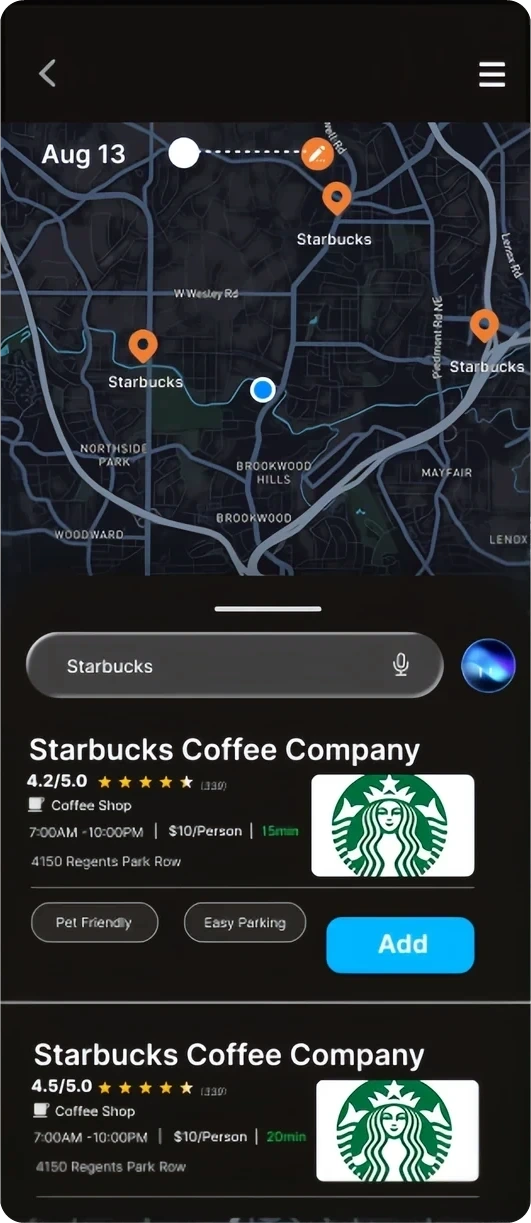
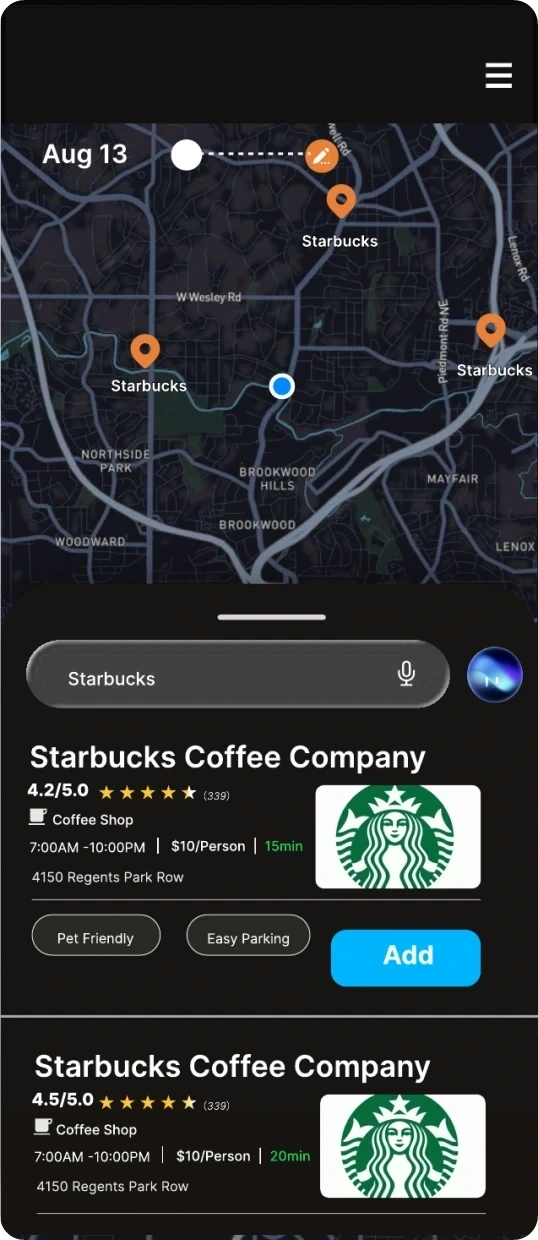
Trip Planning: high-res phone screens, new 06 Low-Fidelity Flows section
- 17 phone screenshots replaced with the user's exports (tools/phone_hires.py, sources in
  ../reference/trip-planning/phone-hires), then the existing corner/trim/tone steps; frame,
  radius and shadow unchanged; all on the #14161E map base.
- Car and phone wireframe boards, both 2000x1304 (background extended, nothing cropped),
  with a 'View the full flow in Figma' button (figma.tripWireframes, placeholder link).

diff --git a/app/work/ai-trip-planning/page.tsx b/app/work/ai-trip-planning/page.tsx
@@ -46,14 +46,15 @@ const NAV: CaseNavItem[] = [
   { id: "insights", index: "03", label: "Key Insights" },
   { id: "color", index: "04", label: "Color & Materials" },
   { id: "shift", index: "05", label: "The Design Shift" },
-  { id: "concept", index: "06", label: "AI Trip Planning" },
-  { id: "phone", index: "07", label: "Planning on the Phone" },
-  { id: "handoff", index: "08", label: "Past Trips" },
-  { id: "in-car", index: "09", label: "The In-Car Plan" },
-  { id: "driving", index: "10", label: "While Driving" },
-  { id: "adapt", index: "11", label: "Adaptive Planning" },
-  { id: "final", index: "12", label: "Final Experience" },
-  { id: "reflection", index: "13", label: "Reflection" },
+  { id: "wireframes", index: "06", label: "Low-Fidelity Flows" },
+  { id: "concept", index: "07", label: "AI Trip Planning" },
+  { id: "phone", index: "08", label: "Planning on the Phone" },
+  { id: "handoff", index: "09", label: "Past Trips" },
+  { id: "in-car", index: "10", label: "The In-Car Plan" },
+  { id: "driving", index: "11", label: "While Driving" },
+  { id: "adapt", index: "12", label: "Adaptive Planning" },
+  { id: "final", index: "13", label: "Final Experience" },
+  { id: "reflection", index: "14", label: "Reflection" },
 ];
 
 const ROLES = [
@@ -578,8 +579,54 @@ export default function TripPlanningCaseStudy() {
             </Stack>
           </WideSection>
 
-          {/* 06 — AI TRIP PLANNING */}
-          <WideSection id="concept" index="06" label="AI Trip Planning" title="Start with an intention, not a destination.">
+          {/* 06 — LOW-FIDELITY FLOWS */}
+          <WideSection id="wireframes" index="06" label="Low-Fidelity Flows" title="Mapping every flow before designing a screen.">
+            <Stack>
+              <TwoCol>
+                <P>
+                  Before any visual design, I sketched the full set of flows in low fidelity: planning before the trip,
+                  adapting during it, and revisiting past routes, first on the car screen, then on the phone.
+                </P>
+                <P>
+                  These boards are an overview, not the whole story. Every step, state, and edge case is in Figma.
+                </P>
+              </TwoCol>
+            </Stack>
+            {[
+              { src: "wireframes-car-flows", label: "Car screen flows", alt: "Low-fidelity car-screen wireframes: route planning before the trip, and rerouting, charging, and destination changes during it" },
+              { src: "wireframes-phone-flows", label: "Phone flows", alt: "Low-fidelity phone wireframes: viewing past routes, creating a route, and changing, deleting, and reordering stops" },
+            ].map((w) => (
+              <Reveal key={w.src}>
+                <figure>
+                  <a href={`/images/trip-planning/${w.src}.webp`} target="_blank" rel="noopener noreferrer" data-cursor="view" className="block">
+                    {/* eslint-disable-next-line @next/next/no-img-element */}
+                    <img
+                      src={`/images/trip-planning/${w.src}.webp`}
+                      alt={w.alt}
+                      width={2000}
+                      height={1304}
+                      loading="lazy"
+                      className="block h-auto w-full rounded-[18px] border border-white/10"
+                    />
+                  </a>
+                  <figcaption className="font-gilroy mt-4 text-[14px] uppercase tracking-[0.2em] text-neutral-500">{w.label}</figcaption>
+                </figure>
+              </Reveal>
+            ))}
+            <Reveal>
+              <div className="flex flex-col items-start gap-5 border-t border-white/[0.08] pt-10 md:flex-row md:items-center md:justify-between">
+                <p className="font-gilroy max-w-[56ch] text-[17px] leading-[1.6] text-neutral-400">
+                  A low-fidelity overview only. View the full flow, with every screen, in Figma.
+                </p>
+                <ShinyButton href={figma.tripWireframes} target="_blank" rel="noopener noreferrer">
+                  View the full flow in Figma ↗
+                </ShinyButton>
+              </div>
+            </Reveal>
+          </WideSection>
+
+          {/* 07 — AI TRIP PLANNING */}
+          <WideSection id="concept" index="07" label="AI Trip Planning" title="Start with an intention, not a destination.">
             <Stack>
               <TwoCol>
                 <P>
@@ -630,8 +677,8 @@ export default function TripPlanningCaseStudy() {
             </Stack>
           </WideSection>
 
-          {/* 07 — PLANNING ON THE PHONE */}
-          <WideSection id="phone" index="07" label="Planning on the Phone" title="Plan ahead, when there's time and flexibility.">
+          {/* 08 — PLANNING ON THE PHONE */}
+          <WideSection id="phone" index="08" label="Planning on the Phone" title="Plan ahead, when there's time and flexibility.">
             <Stack>
               <TwoCol>
                 <P>
@@ -654,8 +701,8 @@ export default function TripPlanningCaseStudy() {
             </Reveal>
           </WideSection>
 
-          {/* 08 — PAST TRIPS */}
-          <WideSection id="handoff" index="08" label="Past Trips" title="Every trip, saved — and easy to revisit.">
+          {/* 09 — PAST TRIPS */}
+          <WideSection id="handoff" index="09" label="Past Trips" title="Every trip, saved — and easy to revisit.">
             <Stack>
               <TwoCol>
                 <P>
@@ -681,8 +728,8 @@ export default function TripPlanningCaseStudy() {
             </Stack>
           </WideSection>
 
-          {/* 09 — THE IN-CAR PLAN */}
-          <WideSection id="in-car" index="09" label="The In-Car Plan" title="Before pulling away, the plan stays in view and easy to change.">
+          {/* 10 — THE IN-CAR PLAN */}
+          <WideSection id="in-car" index="10" label="The In-Car Plan" title="Before pulling away, the plan stays in view and easy to change.">
             <Stack>
               <TwoCol>
                 <P>Parked, the driver has attention to spare, so the full plan stays within reach.</P>
@@ -737,8 +784,8 @@ export default function TripPlanningCaseStudy() {
             </Chapter>
           </WideSection>
 
-          {/* 10 — WHILE DRIVING */}
-          <WideSection id="driving" index="10" label="While Driving" title="Less browsing. More conversation.">
+          {/* 11 — WHILE DRIVING */}
+          <WideSection id="driving" index="11" label="While Driving" title="Less browsing. More conversation.">
             <Stack>
               <TwoCol>
                 <P>
@@ -797,8 +844,8 @@ export default function TripPlanningCaseStudy() {
             </div>
           </WideSection>
 
-          {/* 11 — ADAPTIVE PLANNING */}
-          <WideSection id="adapt" index="11" label="Adaptive Planning" title="A trip plan shouldn't break when reality changes.">
+          {/* 12 — ADAPTIVE PLANNING */}
+          <WideSection id="adapt" index="12" label="Adaptive Planning" title="A trip plan shouldn't break when reality changes.">
             <Stack>
               <TwoCol>
                 <P>
@@ -818,8 +865,8 @@ export default function TripPlanningCaseStudy() {
             </Pull>
           </WideSection>
 
-          {/* 12 — FINAL EXPERIENCE */}
-          <WideSection id="final" index="12" label="Final Experience" title="From intent to journey.">
+          {/* 13 — FINAL EXPERIENCE */}
+          <WideSection id="final" index="13" label="Final Experience" title="From intent to journey.">
             <Reveal>
               <Shot
                 panel={false}
@@ -848,8 +895,8 @@ export default function TripPlanningCaseStudy() {
             </Stack>
           </WideSection>
 
-          {/* 13 — REFLECTION */}
-          <Section id="reflection" index="13" label="Reflection" title="From information retrieval to journey planning.">
+          {/* 14 — REFLECTION */}
+          <Section id="reflection" index="14" label="Reflection" title="From information retrieval to journey planning.">
             <P>
               The answer to an information problem is rarely more information. Research moved the design from screens toward
               decisions —{" "}

diff --git a/lib/content.ts b/lib/content.ts
@@ -22,6 +22,9 @@ export const figma = {
     "https://www.figma.com/design/5P3pWrQfCZR8exsmun1EUP/Intern?node-id=0-1&t=nv3YTN6ziuVvIyZ8-1",
   tripPlanner:
     "https://www.figma.com/design/xrn8Ye8h9ucJhsSwJPvmwl/%E4%BD%9C%E5%93%81%E9%9B%86?node-id=0-1&t=GpPrJvQZCYIB83FG-1",
+  // TODO(Sihan): replace with the full low-fidelity flow link; until then it opens the main Trip Planning file.
+  tripWireframes:
+    "https://www.figma.com/design/xrn8Ye8h9ucJhsSwJPvmwl/%E4%BD%9C%E5%93%81%E9%9B%86?node-id=0-1&t=GpPrJvQZCYIB83FG-1",
 };
 
 export type NavLink = { label: string; href: string; external?: boolean; download?: string; tooltip?: string };
